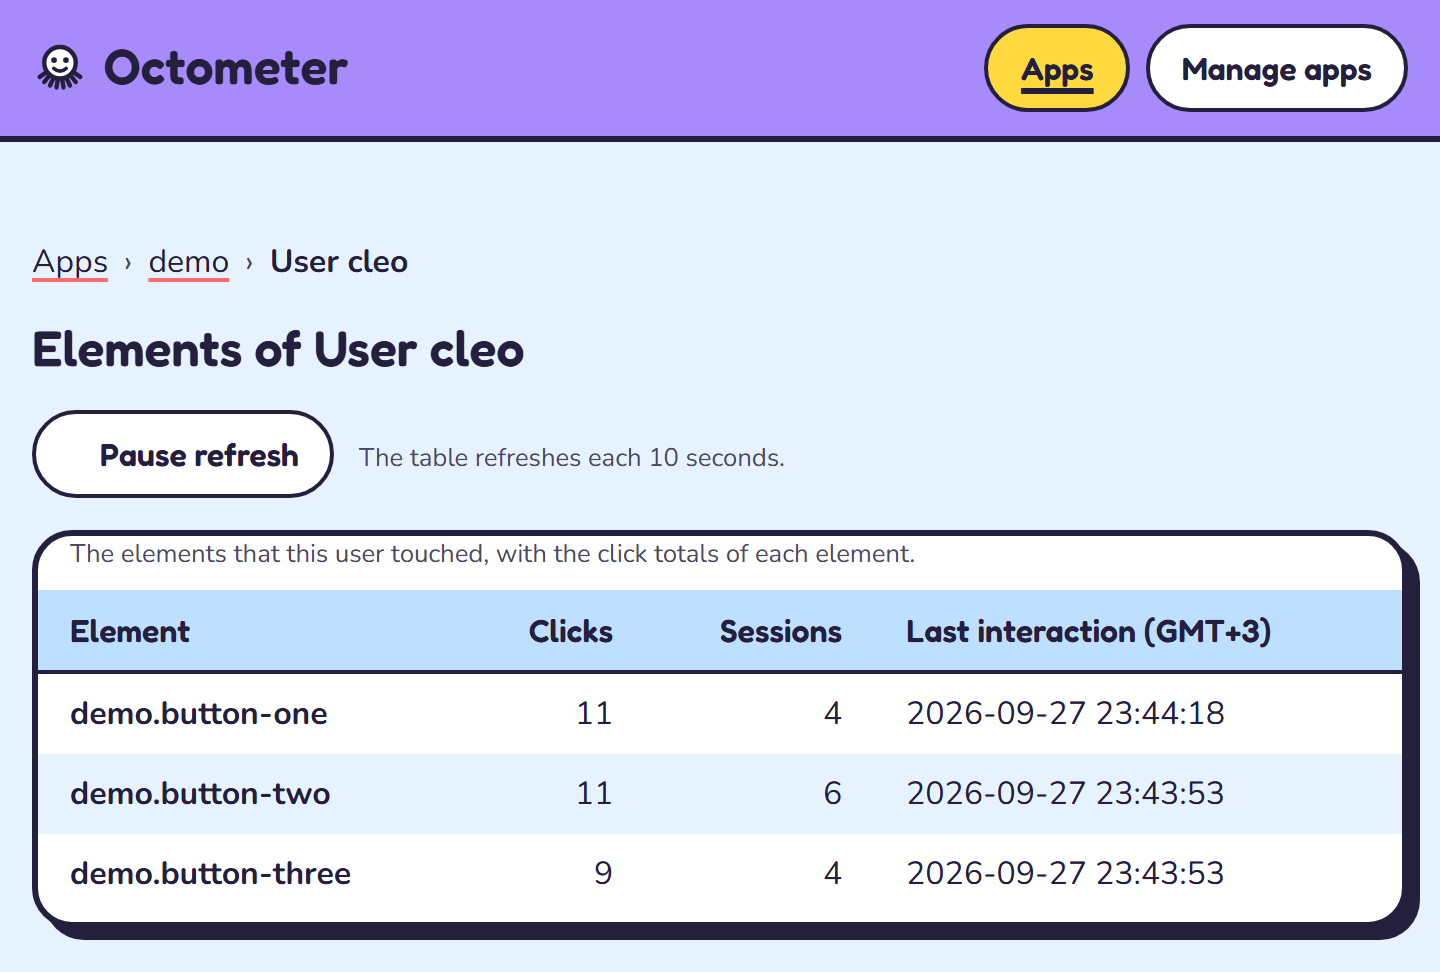
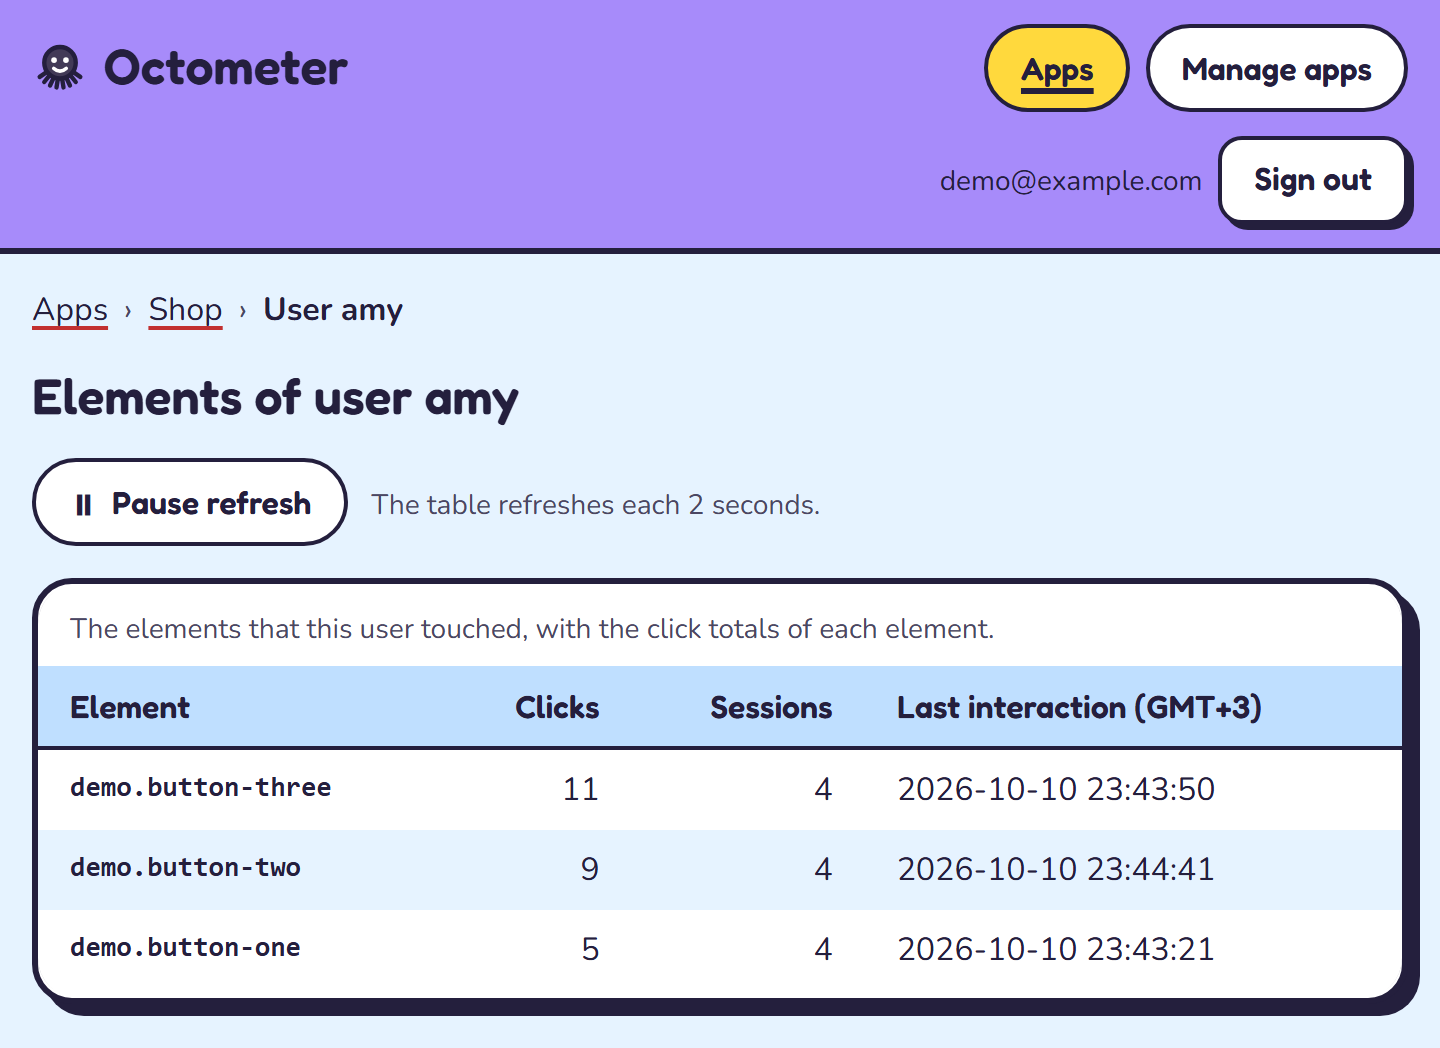
fix(site): recapture the landing-page screenshots after the dashboard changes (#490)
Refs #378.

The three landing-page screenshots (the apps, users, and elements views at 1200 px and 600 px) come from a fresh capture of the dashboard after the audit wave: two demo apps, a 30-day retention, the account demo@example.com; the apps view shows "Totals of the last 30 days.", a real "First pages" link in each row, one "Apps" heading and no duplicate breadcrumb; the users and elements views show the breadcrumb, the heading, and the monospace element names of #386. A scenario in site/e2e/tests/screens-freshness.spec.ts checks the file sizes of the six PNG files against the stale values and failed with one stale value set to the new size. The capture script site/scripts/screenshots.mjs reads a session cookie from an environment variable, because the API needs a session since #301; docs/site.md records the step.

Review: one reviewer (site design with the privacy and security check), APPROVE with no BLOCKER and no MAJOR finding (the reviewer read each of the six images: the demo data only, no owner address, no real application name, no token; the freshness scenario failed with a stale value set to the new size); nine MINOR findings in minor_issues/490.md; the retention number mismatch (30 days on the landing page, 395 as the shipped default) has its own owner-only issue #491.

Changed region(s): [[0.0, 0.0, 1.0, 0.9877], [0.0312, 0.0309, 0.25, 0.0926], [0.8125, 0.0, 0.9688, 0.0309]]

diff --git a/site/e2e/tests/screens-freshness.spec.ts b/site/e2e/tests/screens-freshness.spec.ts
@@ -1,0 +1,35 @@
+// Issue #378, acceptance criterion 2: a check that the three landing
+// screenshots are the current capture, not the stale images of findings
+// D16, D19, and D22 of the UI audit. The check reads the file system
+// only; it opens no page and needs no running Worker.
+import { statSync } from 'node:fs';
+import { join } from 'node:path';
+import { test, expect } from '@playwright/test';
+
+// "site/e2e/tests" up two levels to "site/public/screens", the folder
+// that "scripts/screenshots.mjs" writes.
+const screensDir = join(__dirname, '..', '..', 'public', 'screens');
+
+// The exact byte size of each stale file before issue #378: the apps
+// view with the duplicate breadcrumb heading of D22, the "Totals of the
+// last 395 days" text of D16, and the empty "First pages" link of D19.
+// A recapture that keeps a stale file gives this same size again.
+const STALE_SIZE_BYTES: Readonly<Record<string, number>> = {
+  'apps-1200.png': 99206,
+  'users-1200.png': 98741,
+  'elements-1200.png': 112950,
+};
+
+test('each landing screenshot file is the current capture, not the stale pre-#378 file', () => {
+  for (const [fileName, staleSize] of Object.entries(STALE_SIZE_BYTES)) {
+    const filePath = join(screensDir, fileName);
+    const stats = statSync(filePath);
+    // A stale or an empty file each fail one check below: an empty file
+    // fails the first line, and an untouched stale file fails the
+    // second line with its own exact byte count (the break proof of
+    // the pull request text runs this exact line against the stale
+    // value).
+    expect(stats.size).toBeGreaterThan(0);
+    expect(stats.size).not.toBe(staleSize);
+  }
+});

diff --git a/site/index.html b/site/index.html
@@ -269,7 +269,7 @@
                   src="/screens/users-1200.png"
                   alt="The users view: the user id, the clicks, the sessions, and the unique elements."
                   width="720"
-                  height="689"
+                  height="692"
                   loading="lazy"
                 />
               </picture>
@@ -293,7 +293,7 @@
                   src="/screens/elements-1200.png"
                   alt="The elements view: the element, the clicks, the sessions, and the last interaction time."
                   width="720"
-                  height="486"
+                  height="524"
                   loading="lazy"
                 />
               </picture>

diff --git a/minor_issues/490.md b/minor_issues/490.md
@@ -1,0 +1,15 @@
+# MINOR findings of pull request #490
+
+Each row of this file comes from the review of pull request #490, for issue #378.
+
+| Date | Issue | Reviewer role | File and line | Finding | Suggested fix | Status |
+| --- | --- | --- | --- | --- | --- | --- |
+| 2026-10-14 | #378 | site design, privacy and security | `site/e2e/tests/screens-freshness.spec.ts:17-21` | The check covers the three 1200 px files only. A stale 600 px file keeps the suite green. | Add the three 600 px entries to `STALE_SIZE_BYTES`: `apps-600.png` 44032, `users-600.png` 43232, `elements-600.png` 50310. | open |
+| 2026-10-14 | #378 | site design, privacy and security | `site/e2e/tests/screens-freshness.spec.ts:23-35` | The size check is weak. The assertion now passes on any later state. It guards no later recapture. | Compare the width and the height of each PNG header with the `width` and `height` attribute of `site/index.html`. | open |
+| 2026-10-14 | #378 | site design, privacy and security | `docs/site.md:91`, also `site/scripts/screenshots.mjs:10` and `:43` | The sentence "Every `/api/` route of the monitor needs a session" disagrees with design decision D52. D52 exempts five routes, among them the sign-in routes and the erasure route. | Write "Every `/api/` route that reads app data needs a session (D52, issue #301)." Name the sign-in routes and the erasure route as the exceptions. | open |
+| 2026-10-14 | #378 | site design, privacy and security | `site/index.html:246` | The alt text of the apps image names "the data time". Issue #390 renamed that column to "Last updated". The alt text also lists the columns in the wrong order. | Rewrite the alt text in the column order of the capture. List the app name, the status, the clicks, the users, the sessions, the first pages, and the last update time. | open |
+| 2026-10-14 | #378 | site design, privacy and security | `site/scripts/screenshots.mjs:93` | The script splits the environment value on `=` with no check. A full Cookie header gives a wrong cookie value. The capture then shows the sign-in page. | Stop the run with a clear error when the value holds a `;` or a space. | open |
+| 2026-10-14 | #378 | site design, privacy and security | `CHANGELOG.md:79-81` | The first sentence holds about 36 words. It joins three statements. The language policy allows 25 words for a description. | Split the sentence into three sentences. | open |
+| 2026-10-14 | #378 | site design, privacy and security | `docs/site.md:92-94` | The instruction holds 25 words. The language policy allows 20 words for an instruction. | Split the instruction into two sentences: one for the variable, one for the reason. | open |
+| 2026-10-14 | #378 | site design, privacy and security | `site/public/screens/apps-1200.png` and `apps-600.png`, also the two users files | The two app rows carry one repeated set of values. The five user rows carry another repeated set. The equal numbers read as a mock. | Give the `--generate` run of `tools/demo-app` a different value for each app and for each user. Then recapture. | open |
+| 2026-10-14 | #378 | site design, privacy and security | Scope, `site/scripts/screenshots.mjs:43-52` | The step list of issue #378 does not name a change of the capture script. The change is necessary. Issue #301 locked `/api/apps`, and the script runs that route. | The maintainer records the session step in issue #378. The code needs no change. | open |

diff --git a/CHANGELOG.md b/CHANGELOG.md
@@ -76,6 +76,12 @@ The version number follows the tag form `X.Y.Z`, with no prefix.
   sideways scroll at 768 px, at 800 px, or at 870 px. (#442)
 - Give the dark `--focus-halo` its own value, `#726BAB`, so the sunny line reads 3:1 or
   more against it; record the halo-on-band pair as an accepted exception. (#451)
+- Recapture the three landing-page dashboard screenshots against the fixed apps view
+  (#390, #394, #346) and a believable demo data spread: one heading with no duplicate
+  breadcrumb, a short day count, and a real "First pages" link in each row. Give
+  `screenshots.mjs` an `OCTOMETER_SESSION_COOKIE` option, so it reads the signed-in
+  dashboard of design decision D52. Add an end-to-end check that the three PNG files
+  are the current capture, not the stale pre-#378 files. (#378)
 
 ### Contract
 

diff --git a/docs/site.md b/docs/site.md
@@ -88,6 +88,11 @@ needs no app id or user id as an argument. It writes six PNG files into
 `site/public/screens/`: a 1200 px file and a 600 px file for each view, for the two
 sources of the `<picture>` element of each frame.
 
+Every `/api/` route of the monitor needs a session (design decision D52, issue #301).
+Set `OCTOMETER_SESSION_COOKIE` to the `octometer_session` cookie of a signed-in run
+(`name=value`), so the script reads the real app list, not the sign-in page (issue
+#378).
+
 Two rules:
 
 - A screenshot changes only through this script. Never edit a screenshot file by hand.
